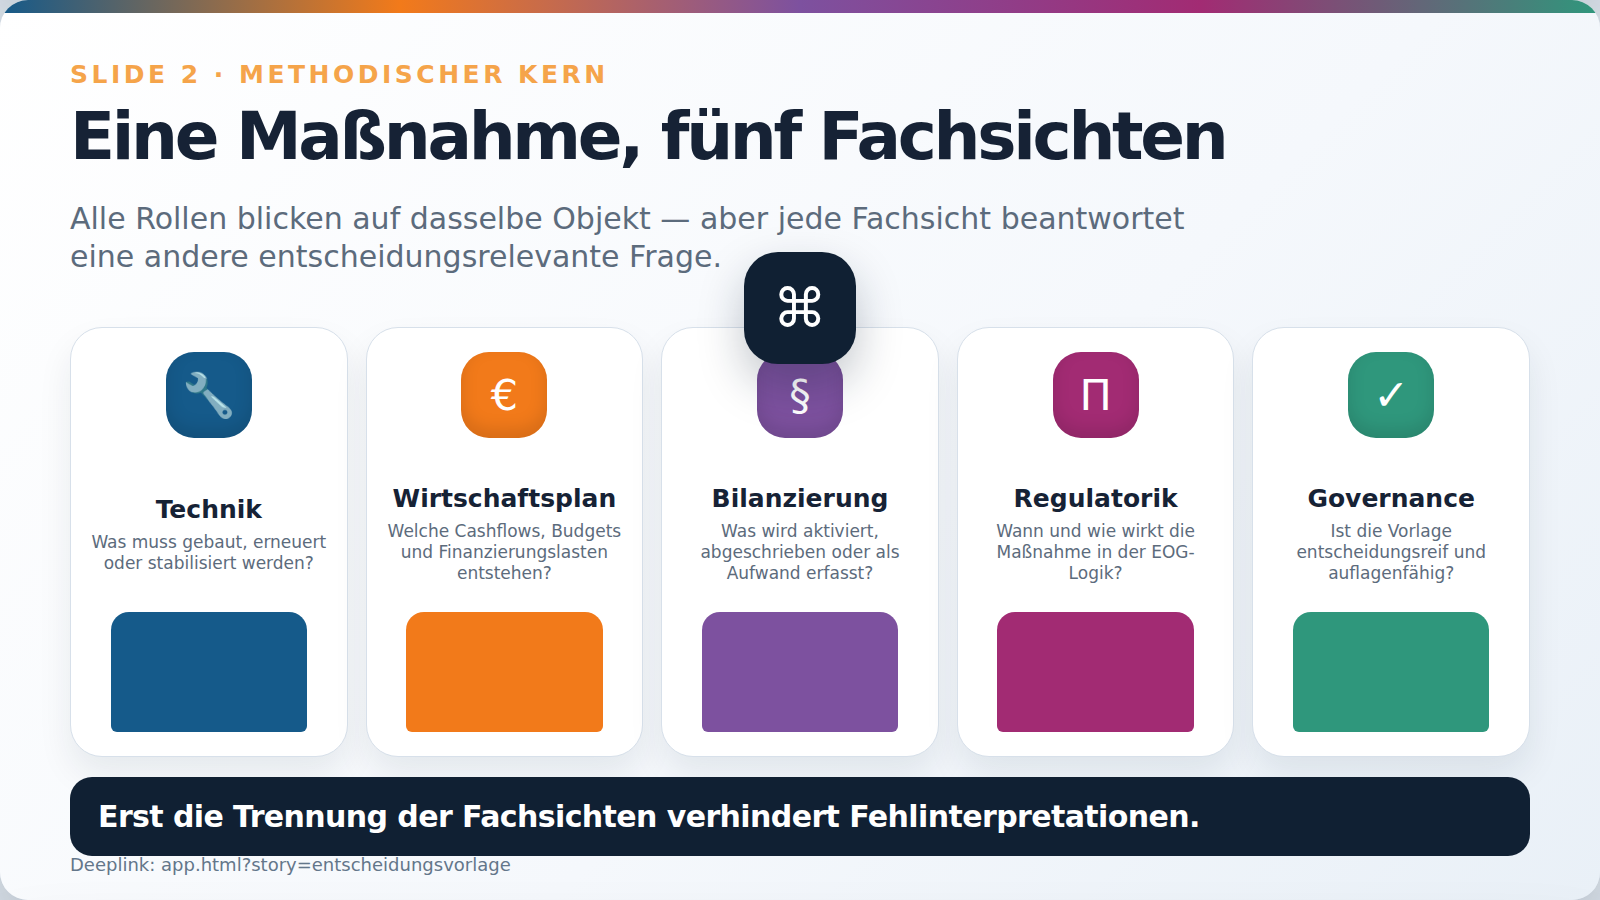
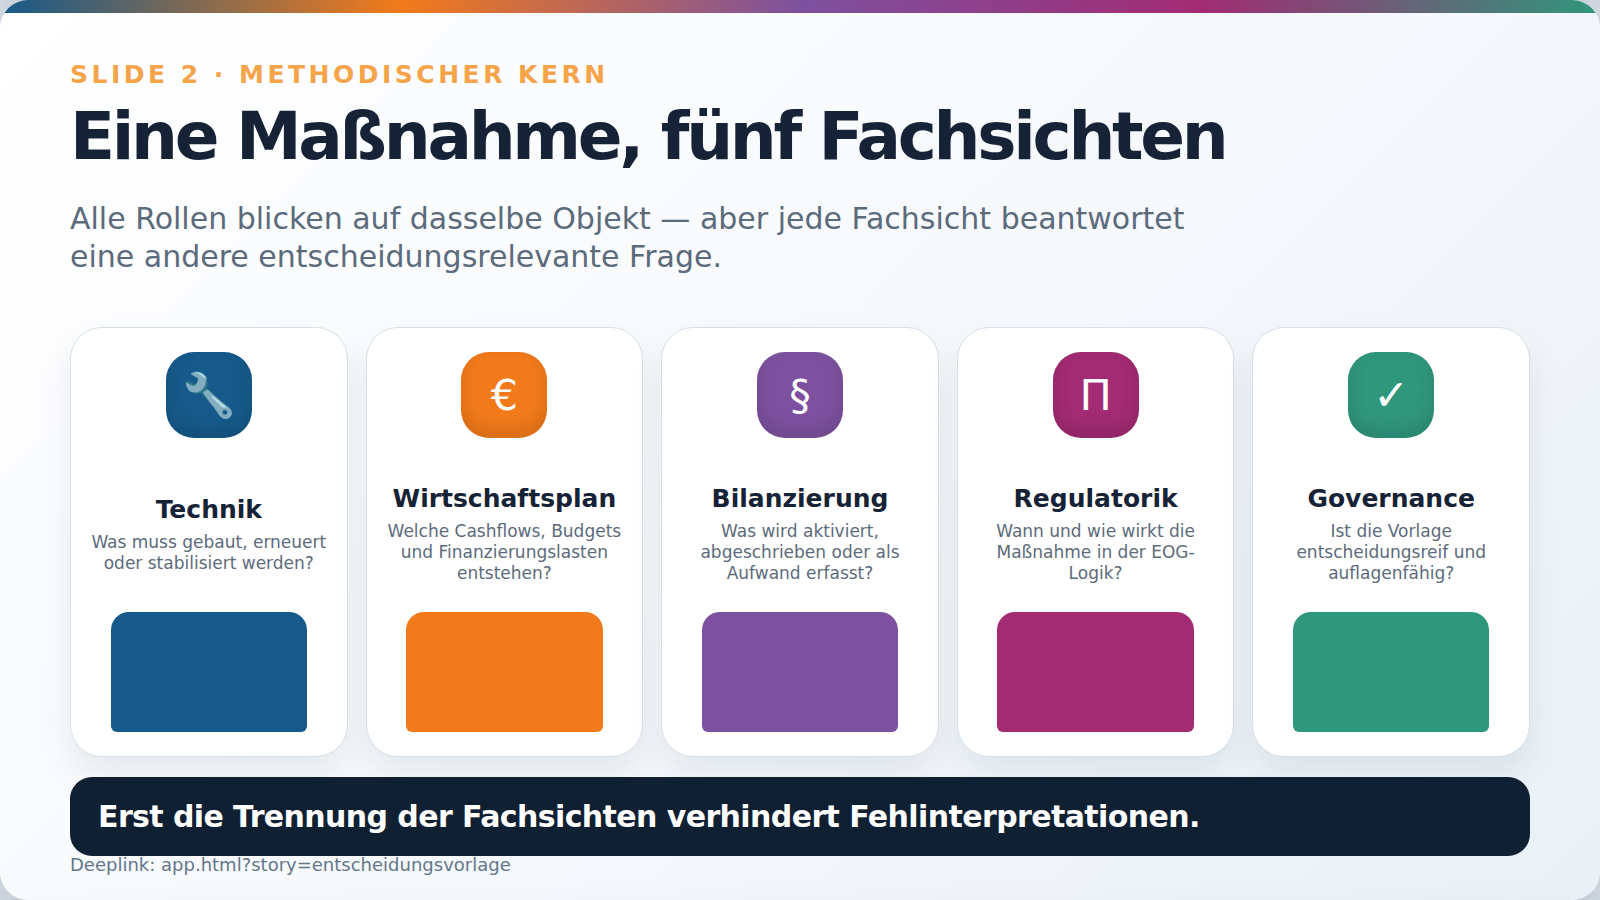
docs: add methodology visual key slide

Changed region(s): [[0.4375, 0.28, 0.5625, 0.4044]]

diff --git a/docs/visuals/methodik-grafikserie.html b/docs/visuals/methodik-grafikserie.html
@@ -5,24 +5,16 @@
   <meta name="viewport" content="width=device-width, initial-scale=1">
   <title>Methodik-Grafikserie · Szenarienrechner-EOG</title>
   <style>
-    :root{--ink:#102033;--muted:#5c6b7c;--line:#c9d6e2;--brand:#155a8a;--orange:#f27a1a;--bg:#dfe6ee}*{box-sizing:border-box}body{margin:0;background:linear-gradient(135deg,#eef3f8,#d7e1ec);color:var(--ink);font-family:Inter,ui-sans-serif,system-ui,-apple-system,BlinkMacSystemFont,"Segoe UI",sans-serif}.page{max-width:1440px;margin:0 auto;padding:28px clamp(12px,3vw,40px) 46px}.hero{display:flex;gap:20px;justify-content:space-between;align-items:flex-end;margin-bottom:22px}.hero h1{font-size:clamp(2rem,4vw,4.2rem);line-height:1;margin:0;letter-spacing:-.055em}.hero p{max-width:760px;margin:.7rem 0 0;color:var(--muted);font-size:1.05rem;line-height:1.5}.hero-actions{display:flex;gap:10px;flex-wrap:wrap;justify-content:flex-end}.hero-actions a,.hero-actions button{border:1px solid #b9c9d8;background:#fff;color:var(--brand);border-radius:999px;padding:.7rem 1rem;font-weight:800;text-decoration:none;cursor:pointer;font:inherit;box-shadow:0 8px 22px rgba(16,32,51,.08)}.carousel{background:rgba(255,255,255,.78);border:1px solid var(--line);border-radius:28px;padding:clamp(12px,2vw,24px);box-shadow:0 25px 70px rgba(16,32,51,.14)}.stage{position:relative;aspect-ratio:16/9;background:#c8d4df;border-radius:22px;overflow:hidden;display:grid;place-items:center}.slide{position:absolute;inset:0;display:grid;place-items:center;opacity:0;visibility:hidden;transition:opacity .22s ease}.slide.is-active{opacity:1;visibility:visible}.slide img{display:block;width:100%;height:100%;object-fit:contain}.stage:focus{outline:4px solid var(--orange);outline-offset:4px}.nav{position:absolute;inset:0;pointer-events:none}.nav button,.modal-nav button{pointer-events:auto;position:absolute;top:50%;transform:translateY(-50%);width:54px;height:76px;border:0;border-radius:18px;background:rgba(16,32,51,.78);color:white;font-size:42px;font-weight:900;cursor:pointer;box-shadow:0 12px 26px rgba(16,32,51,.25)}.prev{left:14px}.next{right:14px}.counter{position:absolute;right:22px;bottom:18px;background:rgba(16,32,51,.84);color:#fff;border-radius:999px;padding:.5rem .8rem;font-weight:900;letter-spacing:.08em}.thumbs{display:grid;grid-template-columns:repeat(7,1fr);gap:10px;margin-top:16px}.thumb{position:relative;border:3px solid transparent;background:#fff;border-radius:14px;padding:0;overflow:hidden;cursor:pointer;box-shadow:0 8px 18px rgba(16,32,51,.08)}.thumb.is-current{border-color:var(--orange)}.thumb img{display:block;width:100%;height:auto}.thumb span{position:absolute;left:7px;top:7px;background:rgba(16,32,51,.85);color:#fff;border-radius:999px;min-width:28px;height:28px;display:grid;place-items:center;font-weight:900;font-size:.85rem}.hint{margin:16px 4px 0;color:var(--muted)}.modal{position:fixed;inset:0;background:rgba(6,16,28,.94);display:none;z-index:20;padding:26px}.modal.is-open{display:grid;grid-template-rows:auto 1fr;gap:16px}.modal-head{display:flex;justify-content:space-between;align-items:center;color:white}.modal-head strong{font-size:1.15rem}.modal-head button{border:1px solid rgba(255,255,255,.35);background:rgba(255,255,255,.1);color:white;border-radius:999px;padding:.65rem 1rem;font-weight:900;cursor:pointer}.modal-stage{position:relative;display:grid;place-items:center;min-height:0}.modal img{max-width:100%;max-height:100%;border-radius:18px;box-shadow:0 35px 90px rgba(0,0,0,.45)}@media (max-width:900px){.hero{display:block}.hero-actions{justify-content:flex-start;margin-top:1rem}.thumbs{grid-template-columns:repeat(4,1fr)}.nav button{width:44px;height:60px;font-size:32px}.page{padding-inline:10px}.carousel{border-radius:18px}.stage{border-radius:14px}.hint{font-size:.95rem}}@media print{body{background:white}.hero,.thumbs,.nav,.hint,.modal{display:none!important}.page{max-width:none;padding:0}.carousel{box-shadow:none;border:0;padding:0}.stage{display:block;aspect-ratio:auto;background:white;overflow:visible}.slide{position:relative;opacity:1;visibility:visible;page-break-after:always;break-after:page;margin:0 0 12mm}.slide img{width:100%;height:auto}}
+    :root{--ink:#102033;--muted:#5c6b7c;--line:#c9d6e2;--brand:#155a8a;--orange:#f27a1a;--bg:#dfe6ee}*{box-sizing:border-box}body{margin:0;background:linear-gradient(135deg,#eef3f8,#d7e1ec);color:var(--ink);font-family:Inter,ui-sans-serif,system-ui,-apple-system,BlinkMacSystemFont,"Segoe UI",sans-serif}.page{max-width:1440px;margin:0 auto;padding:28px clamp(12px,3vw,40px) 46px}.hero{display:flex;gap:20px;justify-content:space-between;align-items:flex-end;margin-bottom:22px}.hero h1{font-size:clamp(2rem,4vw,4.2rem);line-height:1;margin:0;letter-spacing:-.055em}.hero p{max-width:760px;margin:.7rem 0 0;color:var(--muted);font-size:1.05rem;line-height:1.5}.hero-actions{display:flex;gap:10px;flex-wrap:wrap;justify-content:flex-end}.hero-actions a,.hero-actions button{border:1px solid #b9c9d8;background:#fff;color:var(--brand);border-radius:999px;padding:.7rem 1rem;font-weight:800;text-decoration:none;cursor:pointer;font:inherit;box-shadow:0 8px 22px rgba(16,32,51,.08)}.carousel{background:rgba(255,255,255,.78);border:1px solid var(--line);border-radius:28px;padding:clamp(12px,2vw,24px);box-shadow:0 25px 70px rgba(16,32,51,.14)}.stage{position:relative;aspect-ratio:16/9;background:#c8d4df;border-radius:22px;overflow:hidden;display:grid;place-items:center}.slide{position:absolute;inset:0;display:grid;place-items:center;opacity:0;visibility:hidden;transition:opacity .22s ease}.slide.is-active{opacity:1;visibility:visible}.slide img{display:block;width:100%;height:100%;object-fit:contain}.stage:focus{outline:4px solid var(--orange);outline-offset:4px}.nav{position:absolute;inset:0;pointer-events:none}.nav button,.modal-nav button{pointer-events:auto;position:absolute;top:50%;transform:translateY(-50%);width:54px;height:76px;border:0;border-radius:18px;background:rgba(16,32,51,.78);color:white;font-size:42px;font-weight:900;cursor:pointer;box-shadow:0 12px 26px rgba(16,32,51,.25)}.prev{left:14px}.next{right:14px}.counter{position:absolute;right:22px;bottom:18px;background:rgba(16,32,51,.84);color:#fff;border-radius:999px;padding:.5rem .8rem;font-weight:900;letter-spacing:.08em}.thumbs{display:grid;grid-template-columns:repeat(8,1fr);gap:10px;margin-top:16px}.thumb{position:relative;border:3px solid transparent;background:#fff;border-radius:14px;padding:0;overflow:hidden;cursor:pointer;box-shadow:0 8px 18px rgba(16,32,51,.08)}.thumb.is-current{border-color:var(--orange)}.thumb img{display:block;width:100%;height:auto}.thumb span{position:absolute;left:7px;top:7px;background:rgba(16,32,51,.85);color:#fff;border-radius:999px;min-width:28px;height:28px;display:grid;place-items:center;font-weight:900;font-size:.85rem}.hint{margin:16px 4px 0;color:var(--muted)}.modal{position:fixed;inset:0;background:rgba(6,16,28,.94);display:none;z-index:20;padding:26px}.modal.is-open{display:grid;grid-template-rows:auto 1fr;gap:16px}.modal-head{display:flex;justify-content:space-between;align-items:center;color:white}.modal-head strong{font-size:1.15rem}.modal-head button{border:1px solid rgba(255,255,255,.35);background:rgba(255,255,255,.1);color:white;border-radius:999px;padding:.65rem 1rem;font-weight:900;cursor:pointer}.modal-stage{position:relative;display:grid;place-items:center;min-height:0}.modal img{max-width:100%;max-height:100%;border-radius:18px;box-shadow:0 35px 90px rgba(0,0,0,.45)}@media (max-width:900px){.hero{display:block}.hero-actions{justify-content:flex-start;margin-top:1rem}.thumbs{grid-template-columns:repeat(4,1fr)}.nav button{width:44px;height:60px;font-size:32px}.page{padding-inline:10px}.carousel{border-radius:18px}.stage{border-radius:14px}.hint{font-size:.95rem}}@media print{body{background:white}.hero,.thumbs,.nav,.hint,.modal{display:none!important}.page{max-width:none;padding:0}.carousel{box-shadow:none;border:0;padding:0}.stage{display:block;aspect-ratio:auto;background:white;overflow:visible}.slide{position:relative;opacity:1;visibility:visible;page-break-after:always;break-after:page;margin:0 0 12mm}.slide img{width:100%;height:auto}}
   </style>
 </head>
 <body>
   <main class="page">
     <section class="hero" aria-labelledby="page-title">
-      <div>
-        <h1 id="page-title">Methodik-Grafikserie</h1>
-        <p>Sieben Slides als Online-Präsentation: per Pfeil oder Thumbnail wechseln, per Klick groß öffnen und in der Großansicht zur nächsten Slide wechseln.</p>
-      </div>
-      <div class="hero-actions">
-        <a href="../index.html">Zur Dokumentation</a>
-        <a href="../../app.html?story=entscheidungsvorlage">App-Deeplink</a>
-        <button type="button" data-action="open">Aktuelle Slide groß öffnen</button>
-      </div>
+      <div><h1 id="page-title">Methodik-Grafikserie</h1><p>Acht Slides als Online-Präsentation: per Pfeil oder Thumbnail wechseln, per Klick groß öffnen und in der Großansicht zur nächsten Slide wechseln.</p></div>
+      <div class="hero-actions"><a href="../index.html">Zur Dokumentation</a><a href="../../index.html">Zur Startseite</a><a href="../../app.html?story=entscheidungsvorlage">App-Deeplink</a><button type="button" data-action="open">Aktuelle Slide groß öffnen</button></div>
     </section>
-    <section class="carousel" aria-label="Methodik-Slides als Karussell">
-      <div class="stage" tabindex="0" role="button" aria-label="Aktuelle Slide groß öffnen">
+    <section class="carousel" aria-label="Methodik-Slides als Karussell"><div class="stage" tabindex="0" role="button" aria-label="Aktuelle Slide groß öffnen">
         <section class="slide is-active" data-slide="01" id="slide-01"><img src="exports/methodik-slide-01.png" alt="Slide 1: Warum klassische Investitionsrechnung nicht reicht"></section>
         <section class="slide" data-slide="02" id="slide-02"><img src="exports/methodik-slide-02.png" alt="Slide 2: Eine Maßnahme, fünf Fachsichten"></section>
         <section class="slide" data-slide="03" id="slide-03"><img src="exports/methodik-slide-03.png" alt="Slide 3: Cashflow ist nicht EOG-Wirkung"></section>
@@ -30,9 +22,8 @@
         <section class="slide" data-slide="05" id="slide-05"><img src="exports/methodik-slide-05.png" alt="Slide 5: IRR-Falle und MIRR"></section>
         <section class="slide" data-slide="06" id="slide-06"><img src="exports/methodik-slide-06.png" alt="Slide 6: Szenarien statt Scheingenauigkeit"></section>
         <section class="slide" data-slide="07" id="slide-07"><img src="exports/methodik-slide-07.png" alt="Slide 7: Governance-Reife statt bloßer Kennzahlen"></section>
-        <div class="nav" aria-label="Slide-Navigation"><button class="prev" type="button" data-action="prev" aria-label="Vorherige Slide">‹</button><button class="next" type="button" data-action="next" aria-label="Nächste Slide">›</button></div>
-        <div class="counter" aria-live="polite">1 / 7</div>
-      </div>
+        <section class="slide" data-slide="08" id="slide-08"><img src="exports/methodik-slide-08.png" alt="Slide 8: QR-Code und Startseite"></section>
+        <div class="nav" aria-label="Slide-Navigation"><button class="prev" type="button" data-action="prev" aria-label="Vorherige Slide">‹</button><button class="next" type="button" data-action="next" aria-label="Nächste Slide">›</button></div><div class="counter" aria-live="polite">1 / 8</div></div>
       <div class="thumbs" aria-label="Slide-Auswahl">
         <button class="thumb is-current" type="button" data-target="0" aria-label="Slide 1 anzeigen"><img src="exports/methodik-slide-01.png" alt="Vorschau Slide 1"><span>1</span></button>
         <button class="thumb" type="button" data-target="1" aria-label="Slide 2 anzeigen"><img src="exports/methodik-slide-02.png" alt="Vorschau Slide 2"><span>2</span></button>
@@ -41,22 +32,16 @@
         <button class="thumb" type="button" data-target="4" aria-label="Slide 5 anzeigen"><img src="exports/methodik-slide-05.png" alt="Vorschau Slide 5"><span>5</span></button>
         <button class="thumb" type="button" data-target="5" aria-label="Slide 6 anzeigen"><img src="exports/methodik-slide-06.png" alt="Vorschau Slide 6"><span>6</span></button>
         <button class="thumb" type="button" data-target="6" aria-label="Slide 7 anzeigen"><img src="exports/methodik-slide-07.png" alt="Vorschau Slide 7"><span>7</span></button>
-      </div>
-      <p class="hint">Tipp: Pfeiltasten wechseln die Slides. Klick auf die große Slide öffnet die PNG-Großansicht.</p>
-    </section>
+        <button class="thumb" type="button" data-target="7" aria-label="Slide 8 anzeigen"><img src="exports/methodik-slide-08.png" alt="Vorschau Slide 8"><span>8</span></button>
+      </div><p class="hint">Tipp: Pfeiltasten wechseln die Slides. Klick auf die große Slide öffnet die PNG-Großansicht.</p></section>
   </main>
-  <div class="modal" role="dialog" aria-modal="true" aria-hidden="true" aria-label="Slide-Großansicht">
-    <div class="modal-head"><strong class="modal-title">Slide 1</strong><button type="button" data-action="close">Schließen</button></div>
-    <div class="modal-stage"><img src="exports/methodik-slide-01.png" alt="Großansicht Slide 1"><div class="modal-nav"><button class="prev" type="button" data-action="prev" aria-label="Vorherige Slide">‹</button><button class="next" type="button" data-action="next" aria-label="Nächste Slide">›</button></div></div>
-  </div>
+  <div class="modal" role="dialog" aria-modal="true" aria-hidden="true" aria-label="Slide-Großansicht"><div class="modal-head"><strong class="modal-title">Slide 1</strong><button type="button" data-action="close">Schließen</button></div><div class="modal-stage"><img src="exports/methodik-slide-01.png" alt="Großansicht Slide 1"><div class="modal-nav"><button class="prev" type="button" data-action="prev" aria-label="Vorherige Slide">‹</button><button class="next" type="button" data-action="next" aria-label="Nächste Slide">›</button></div></div></div>
   <script>
     const slides=[...document.querySelectorAll('.slide')];const thumbs=[...document.querySelectorAll('.thumb')];const counter=document.querySelector('.counter');const stage=document.querySelector('.stage');const modal=document.querySelector('.modal');const modalImg=document.querySelector('.modal img');const modalTitle=document.querySelector('.modal-title');let current=0;
     function titleOf(i){return slides[i].querySelector('img').alt.replace(/^Slide \d+: /,'')}
     function show(index){current=(index+slides.length)%slides.length;slides.forEach((s,i)=>s.classList.toggle('is-active',i===current));thumbs.forEach((t,i)=>t.classList.toggle('is-current',i===current));counter.textContent=`${current+1} / ${slides.length}`;history.replaceState(null,'',`#slide-${String(current+1).padStart(2,'0')}`);if(modal.classList.contains('is-open'))updateModal()}
     function updateModal(){const n=String(current+1).padStart(2,'0');modalImg.src=`exports/methodik-slide-${n}.png`;modalImg.alt=`Großansicht Slide ${current+1}: ${titleOf(current)}`;modalTitle.textContent=`Slide ${current+1}: ${titleOf(current)}`}
-    function openModal(){updateModal();modal.classList.add('is-open');modal.setAttribute('aria-hidden','false')}
-    function closeModal(){modal.classList.remove('is-open');modal.setAttribute('aria-hidden','true')}
+    function openModal(){updateModal();modal.classList.add('is-open');modal.setAttribute('aria-hidden','false')}function closeModal(){modal.classList.remove('is-open');modal.setAttribute('aria-hidden','true')}
     document.querySelectorAll('[data-action="prev"]').forEach(b=>b.addEventListener('click',()=>show(current-1)));document.querySelectorAll('[data-action="next"]').forEach(b=>b.addEventListener('click',()=>show(current+1)));thumbs.forEach((t,i)=>t.addEventListener('click',()=>show(i)));stage.addEventListener('click',e=>{if(!e.target.closest('.nav button'))openModal()});document.querySelector('[data-action="open"]').addEventListener('click',openModal);document.querySelector('[data-action="close"]').addEventListener('click',closeModal);modal.addEventListener('click',e=>{if(e.target===modal)closeModal()});window.addEventListener('keydown',e=>{if(e.key==='ArrowRight')show(current+1);if(e.key==='ArrowLeft')show(current-1);if(e.key==='Escape')closeModal();if(e.key==='Enter'&&document.activeElement===stage)openModal()});const m=location.hash.match(/slide-(\d+)/);show(m?Number(m[1])-1:0);
   </script>
-</body>
-</html>
+</body></html>

diff --git a/docs/visuals/methodik-slide-source.html b/docs/visuals/methodik-slide-source.html
@@ -1,0 +1,23 @@
+<!doctype html>
+<html lang="de">
+<head>
+  <meta charset="utf-8">
+  <meta name="viewport" content="width=device-width, initial-scale=1">
+  <title>Methodik-Grafikserie · Szenarienrechner-EOG</title>
+  <style>
+    :root{--navy:#102033;--blue:#155a8a;--orange:#f27a1a;--purple:#7d519f;--magenta:#a22b73;--green:#2f977c;--red:#d13a2f;--yellow:#f0b82b;--grey:#8390a2;--ink:#162235;--muted:#5c6b7c;--line:#d7e0ea;--paper:#f7f9fc}*{box-sizing:border-box}body{margin:0;background:#dfe6ee;color:var(--ink);font-family:Inter,ui-sans-serif,system-ui,-apple-system,BlinkMacSystemFont,"Segoe UI",sans-serif}.deck{display:flex;flex-direction:column;gap:32px;padding:32px}.slide{width:1600px;height:900px;margin:auto;background:linear-gradient(135deg,#fff 0%,#f5f8fc 58%,#e9f0f7 100%);border-radius:28px;box-shadow:0 30px 80px rgba(15,32,51,.22);position:relative;overflow:hidden;padding:60px 70px}.dark{background:radial-gradient(circle at 78% 18%,#2d6f95 0%,#153b5e 36%,#0c1e34 100%);color:white}.topline{position:absolute;top:0;left:0;right:0;height:13px;background:linear-gradient(90deg,var(--blue),var(--orange),var(--purple),var(--magenta),var(--green))}.kicker{font-weight:850;letter-spacing:.14em;text-transform:uppercase;color:#f5a44a;font-size:25px}.dark .kicker{color:#ffc36f}.title{font-size:66px;line-height:1.02;letter-spacing:-.05em;font-weight:900;margin:14px 0 16px}.subtitle{font-size:30px;line-height:1.25;color:var(--muted);max-width:1120px}.dark .subtitle{color:#d8e9f7}.claim{position:absolute;left:70px;right:70px;bottom:44px;padding:22px 28px;border-radius:22px;background:#102033;color:#fff;font-size:30px;font-weight:850;letter-spacing:-.02em}.dark .claim{background:rgba(255,255,255,.13);border:1px solid rgba(255,255,255,.22)}.footer{position:absolute;right:70px;bottom:25px;color:#8390a2;font-size:18px}.dark .footer{color:#b6cce1}.deeplink{position:absolute;left:70px;bottom:25px;color:#63768a;font-size:18px}.dark .deeplink{color:#b8d0e6}.grid2{display:grid;grid-template-columns:1fr 1fr;gap:55px;margin-top:45px}.card{background:rgba(255,255,255,.9);border:1px solid var(--line);border-radius:26px;padding:30px;box-shadow:0 16px 42px rgba(22,34,53,.08)}.dark .card{background:rgba(255,255,255,.1);border-color:rgba(255,255,255,.18)}.card h3{font-size:31px;margin:0 0 14px;letter-spacing:-.03em}.card p,.small{font-size:22px;line-height:1.38;color:var(--muted);margin:0}.dark .card p,.dark .small{color:#dce9f4}.row{display:flex;align-items:center;gap:18px}.bigicon{width:152px;height:152px;border-radius:42px;display:flex;align-items:center;justify-content:center;font-size:76px;color:#fff}.icon{width:86px;height:86px;border-radius:28px;display:flex;align-items:center;justify-content:center;font-size:43px;color:#fff;box-shadow:inset 0 -8px 18px rgba(0,0,0,.12)}.five{display:grid;grid-template-columns:repeat(5,1fr);gap:18px;margin-top:52px}.view{height:430px;border-radius:32px;padding:24px 18px;background:#fff;border:1px solid var(--line);box-shadow:0 18px 34px rgba(16,32,51,.08);display:flex;flex-direction:column;align-items:center;text-align:center;justify-content:space-between}.view h3{font-size:25px;margin:18px 0 8px}.view p{font-size:17px;line-height:1.25;color:var(--muted);margin:0}.view .bar{width:82%;height:120px;border-radius:18px 18px 6px 6px}.center-node{position:absolute;left:50%;top:252px;transform:translateX(-50%);width:112px;height:112px;border-radius:34px;background:#102033;color:#fff;display:flex;align-items:center;justify-content:center;font-size:54px;box-shadow:0 20px 45px rgba(16,32,51,.25);z-index:2}.timeline{margin-top:60px;display:grid;grid-template-rows:repeat(4,108px);gap:18px}.tlrow{display:grid;grid-template-columns:190px 1fr;gap:22px;align-items:center}.tlname{font-size:25px;font-weight:900}.track{height:70px;background:#edf3f8;border-radius:22px;position:relative;border:1px solid var(--line)}.block{position:absolute;top:12px;height:46px;border-radius:16px;color:white;font-weight:900;display:flex;align-items:center;justify-content:center;font-size:19px}.years{display:grid;grid-template-columns:repeat(6,1fr);margin-left:212px;margin-top:10px;color:var(--muted);font-weight:800}.flow{display:grid;grid-template-columns:repeat(3,1fr);gap:28px;margin-top:54px}.badge{display:inline-flex;align-items:center;justify-content:center;min-width:56px;height:56px;border-radius:50%;color:#fff;font-size:28px;font-weight:900}.pathmap{height:395px;margin-top:50px;border-radius:32px;background:#fff;border:1px solid var(--line);position:relative;padding:35px}.path{position:absolute;height:16px;border-radius:999px}.pathlabel{position:absolute;font-weight:900;font-size:24px}.legend{position:absolute;right:40px;top:40px;display:grid;gap:12px}.legend div{display:flex;align-items:center;gap:10px;font-size:20px;font-weight:800}.sw{width:22px;height:22px;border-radius:7px}.curvebox{height:370px;background:#fff;border:1px solid var(--line);border-radius:30px;position:relative;padding:24px}.curvebox svg{width:100%;height:100%}.pill{display:inline-flex;padding:10px 16px;border-radius:999px;background:#eef4fa;color:#23435e;font-weight:800;font-size:18px}.decision-grid{display:grid;grid-template-columns:repeat(4,1fr);gap:22px;margin-top:52px}.decision{height:360px;border-radius:30px;background:#fff;border:1px solid var(--line);padding:28px;display:flex;flex-direction:column;align-items:center;text-align:center;justify-content:space-between;box-shadow:0 18px 36px rgba(16,32,51,.08);color:var(--ink)}.decision h3{font-size:29px;margin:0}.decision p{font-size:18px;line-height:1.3;color:var(--muted);margin:0}
+.final-layout{display:grid;grid-template-columns:0.84fr 1.16fr;gap:42px;margin-top:28px;align-items:stretch}.qr-card{background:#fff;border:1px solid var(--line);border-radius:34px;padding:28px;box-shadow:0 20px 46px rgba(16,32,51,.1);display:flex;flex-direction:column;align-items:center;justify-content:center;text-align:center}.qr-card img{width:280px;height:280px;object-fit:contain}.qr-card strong{font-size:27px;margin-top:16px;letter-spacing:-.025em}.qr-card a{font-size:19px;color:var(--blue);font-weight:850;text-decoration:none;word-break:break-word}.keyword-grid{display:grid;grid-template-columns:1fr;gap:10px}.keyword{background:#fff;border:1px solid var(--line);border-radius:22px;padding:14px 22px;min-height:82px;display:grid;grid-template-columns:60px 1fr;gap:16px;align-items:center;box-shadow:0 14px 30px rgba(16,32,51,.08)}.keyword .badge{width:54px;height:54px;min-width:54px;font-size:24px}.keyword h3{font-size:25px;line-height:1.05;margin:0 0 3px;letter-spacing:-.03em}.keyword p{font-size:16px;line-height:1.2;color:var(--muted);margin:0}.dark .keyword,.dark .qr-card{background:rgba(255,255,255,.1);border-color:rgba(255,255,255,.18)}.dark .keyword p{color:#dce9f4}.dark .qr-card a{color:#d8e9f7}
+@media print{body{background:#fff}.deck{padding:0;gap:0}.slide{box-shadow:none;border-radius:0;page-break-after:always}}
+  </style>
+</head>
+<body><main class="deck">
+<section class="slide dark" data-slide="01"><div class="topline"></div><div class="kicker">Slide 1 · Problemrahmen</div><h1 class="title">Warum klassische Investitionsrechnung nicht reicht</h1><p class="subtitle">Regulierte Finanzplanung erweitert NPV, IRR und Budgetlogik um Periodisierung, Erlösobergrenzen, Bilanzierung und Governance.</p><div class="grid2"><div class="card"><div class="row"><div class="bigicon" style="background:linear-gradient(135deg,#f27a1a,#ffc36f)">∑</div><div><h3>Klassische Investitionsrechnung</h3><p>Eine Kurve, ein Diskontsatz, eine scheinbar eindeutige Wahrheit.</p></div></div></div><div class="card"><div class="row"><div class="bigicon" style="background:linear-gradient(135deg,#2f977c,#155a8a)">⚙</div><div><h3>Regulierte Netzinfrastruktur</h3><p>Mehrere fachliche Realitäten mit unterschiedlichen Zeitpunkten und Anerkennungslogiken.</p></div></div></div></div><div class="claim">Regulierung erzeugt eine zweite fachliche Realität.</div><div class="footer">Szenarienrechner-EOG · Methodik-Grafikserie</div></section>
+<section class="slide" data-slide="02"><div class="topline"></div><div class="kicker">Slide 2 · Methodischer Kern</div><h1 class="title">Eine Maßnahme, fünf Fachsichten</h1><p class="subtitle">Alle Rollen blicken auf dasselbe Objekt — aber jede Fachsicht beantwortet eine andere entscheidungsrelevante Frage.</p><div class="five"><div class="view"><div class="icon" style="background:#155a8a">🔧</div><div><h3>Technik</h3><p>Was muss gebaut, erneuert oder stabilisiert werden?</p></div><div class="bar" style="background:#155a8a"></div></div><div class="view"><div class="icon" style="background:#f27a1a">€</div><div><h3>Wirtschaftsplan</h3><p>Welche Cashflows, Budgets und Finanzierungslasten entstehen?</p></div><div class="bar" style="background:#f27a1a"></div></div><div class="view"><div class="icon" style="background:#7d519f">§</div><div><h3>Bilanzierung</h3><p>Was wird aktiviert, abgeschrieben oder als Aufwand erfasst?</p></div><div class="bar" style="background:#7d519f"></div></div><div class="view"><div class="icon" style="background:#a22b73">Π</div><div><h3>Regulatorik</h3><p>Wann und wie wirkt die Maßnahme in der EOG-Logik?</p></div><div class="bar" style="background:#a22b73"></div></div><div class="view"><div class="icon" style="background:#2f977c">✓</div><div><h3>Governance</h3><p>Ist die Vorlage entscheidungsreif und auflagenfähig?</p></div><div class="bar" style="background:#2f977c"></div></div></div><div class="claim">Erst die Trennung der Fachsichten verhindert Fehlinterpretationen.</div><div class="deeplink">Deeplink: app.html?story=entscheidungsvorlage</div></section>
+<section class="slide" data-slide="03"><div class="topline"></div><div class="kicker">Slide 3 · Periodenlogik</div><h1 class="title">Cashflow ist nicht EOG-Wirkung</h1><p class="subtitle">Auszahlung, Aufwand, Aktivierung, Abschreibung und regulatorische Anerkennung fallen zeitlich und sachlich auseinander.</p><div class="timeline"><div class="tlrow"><div class="tlname">Cashflow</div><div class="track"><div class="block" style="left:4%;width:22%;background:#f27a1a">Mittelabfluss</div></div></div><div class="tlrow"><div class="tlname">HGB</div><div class="track"><div class="block" style="left:10%;width:20%;background:#7d519f">Aktivierung</div><div class="block" style="left:34%;width:46%;background:#9b7bbb">AfA</div></div></div><div class="tlrow"><div class="tlname">Regulatorik</div><div class="track"><div class="block" style="left:28%;width:52%;background:#a22b73">Periodenwirkung</div></div></div><div class="tlrow"><div class="tlname">Governance</div><div class="track"><div class="block" style="left:2%;width:34%;background:#2f977c">Beschluss vor Wirkung</div></div></div></div><div class="years"><span>Jahr 0</span><span>Jahr 1</span><span>Jahr 2</span><span>Jahr 3</span><span>Jahr 4</span><span>Jahr 5</span></div><div class="claim">Was heute bezahlt wird, wirkt nicht zwingend heute regulatorisch.</div><div class="deeplink">Deeplink: app.html?story=datenerhebung</div></section>
+<section class="slide" data-slide="04"><div class="topline"></div><div class="kicker">Slide 4 · Wirkungsverzüge</div><h1 class="title">Wirkungsverzüge machen den Unterschied</h1><p class="subtitle">Die kritische Methodik liegt in der Periodisierung: CAPEX, OPEX, Qualität, Effizienz und Risiko wirken nicht gleichzeitig.</p><div class="flow"><div class="card"><div class="row"><span class="badge" style="background:#155a8a">1</span><h3>Investition heute</h3></div><p>Technische Notwendigkeit und Mittelabfluss entstehen häufig vor der regulatorischen Anerkennung.</p></div><div class="card"><div class="row"><span class="badge" style="background:#a22b73">2</span><h3>Qualität & Effizienz</h3></div><p>Wirkungen werden als Annahmen dokumentiert und nicht als sofortiger Erlöseffekt behandelt.</p></div><div class="card"><div class="row"><span class="badge" style="background:#f27a1a">3</span><h3>OPEX-Wirkung</h3></div><p>Operative Effekte werden periodisiert, damit Szenarien nicht zu früh entlasten.</p></div></div><div class="pathmap" style="height:225px"><div class="pathlabel" style="left:40px;top:40px">Planungsfehler</div><div class="path" style="left:260px;top:60px;width:930px;background:#d13a2f"></div><div class="pathlabel" style="right:48px;top:40px;color:#d13a2f">falscher Zeitpunkt</div><div class="path" style="left:260px;top:145px;width:930px;background:#2f977c"></div><div class="pathlabel" style="right:48px;top:125px;color:#2f977c">saubere Periodisierung</div></div><div class="claim">Der Planungsfehler entsteht selten in der Formel — sondern im falschen Zeitpunkt.</div></section>
+<section class="slide" data-slide="05"><div class="topline"></div><div class="kicker">Slide 5 · Finanzmathematik</div><h1 class="title">IRR-Falle: Mehrdeutigkeit sichtbar machen</h1><p class="subtitle">Langfristige Infrastruktur kann mehrere Vorzeichenwechsel enthalten. Dann wird die klassische interne Verzinsung interpretativ riskant.</p><div class="grid2"><div class="curvebox"><svg viewBox="0 0 620 310"><line x1="25" y1="160" x2="595" y2="160" stroke="#c9d4df" stroke-width="4"/><line x1="65" y1="25" x2="65" y2="285" stroke="#c9d4df" stroke-width="4"/><path d="M70 245 C145 245 145 62 235 62 C325 62 310 150 378 150 C455 150 470 258 560 258" fill="none" stroke="#155a8a" stroke-width="12" stroke-linecap="round"/><circle cx="176" cy="160" r="13" fill="#d13a2f"/><circle cx="390" cy="160" r="13" fill="#d13a2f"/><text x="128" y="197" font-size="24" font-weight="800" fill="#d13a2f">IRR?</text><text x="356" y="197" font-size="24" font-weight="800" fill="#d13a2f">IRR?</text><text x="78" y="280" font-size="20" fill="#5c6b7c">Investition</text><text x="252" y="45" font-size="20" fill="#5c6b7c">Rückflüsse</text><text x="445" y="290" font-size="20" fill="#5c6b7c">Folgekosten</text></svg></div><div class="card"><span class="pill">MIRR</span><h3 style="font-size:44px;margin-top:28px">Annahmen statt Scheineindeutigkeit</h3><p>Die modifizierte interne Verzinsung trennt Finanzierungssatz und Reinvestitionssatz. Dadurch wird nicht die Komplexität versteckt, sondern die Annahmen werden prüfbar.</p></div></div><div class="claim">MIRR ersetzt mathematische Mehrdeutigkeit durch prüfbare Annahmen.</div><div class="deeplink">Deeplink: app.html?story=massnahmenbewertung</div></section>
+<section class="slide" data-slide="06"><div class="topline"></div><div class="kicker">Slide 6 · Robustheit</div><h1 class="title">Szenarien statt Scheingenauigkeit</h1><p class="subtitle">Die Methode behauptet keine perfekte Prognose. Sie zeigt, ob eine Maßnahme unter unterschiedlichen Annahmen entscheidungsfähig bleibt.</p><div class="pathmap"><div class="legend"><div><span class="sw" style="background:#155a8a"></span>Basisszenario</div><div><span class="sw" style="background:#a22b73"></span>Konservativer Gegenlauf</div><div><span class="sw" style="background:#2f977c"></span>Wertorientierte Sensitivität</div></div><div class="pathlabel" style="left:60px;top:55px;color:#155a8a">Basis</div><div class="path" style="left:170px;top:72px;width:860px;background:#155a8a"></div><div class="pathlabel" style="left:60px;bottom:82px;color:#a22b73">Gegenlauf</div><div class="path" style="left:230px;bottom:99px;width:720px;background:#a22b73"></div><div class="pathlabel" style="left:360px;top:145px;color:#2f977c">Sensitivität</div><div class="path" style="left:330px;top:190px;width:520px;background:#2f977c;transform:rotate(36deg);transform-origin:left center"></div><div style="position:absolute;left:870px;top:150px;width:170px;height:170px;border-radius:42px;background:#f5f8fc;border:8px solid #102033;display:flex;align-items:center;justify-content:center;font-size:78px">🛡</div></div><div class="claim">Szenarien ersetzen gefährliche Scheingenauigkeit.</div><div class="deeplink">Deeplink: app.html?story=konsolidierung</div></section>
+<section class="slide dark" data-slide="07"><div class="topline"></div><div class="kicker">Slide 7 · Ergebnislogik</div><h1 class="title">Governance-Reife statt bloßer Kennzahlen</h1><p class="subtitle">Das Ziel ist keine isolierte Kennzahl, sondern eine beschlussfähige Vorlage für Management, Aufsichtsrat, Kommune und Verbund.</p><div class="decision-grid"><div class="decision"><div class="icon" style="width:112px;height:112px;background:#2f977c;font-size:58px">✓</div><h3>Robust tragfähig</h3><p>Entscheidungsfähig auch unter Gegenlauf und Sensitivität.</p></div><div class="decision"><div class="icon" style="width:112px;height:112px;background:#f0b82b;font-size:58px">?</div><h3>Tragfähig mit Auflage</h3><p>Beschlussfähig, wenn Auflagen, Monitoring oder Klärpunkte gesetzt werden.</p></div><div class="decision"><div class="icon" style="width:112px;height:112px;background:#8390a2;font-size:58px">…</div><h3>Nicht entscheidungsreif</h3><p>Annahmen, Evidenz oder Zuständigkeiten reichen noch nicht.</p></div><div class="decision"><div class="icon" style="width:112px;height:112px;background:#d13a2f;font-size:58px">!</div><h3>Nicht tragfähig</h3><p>Das Szenario verletzt finanzielle, regulatorische oder Governance-Grenzen.</p></div></div><div class="claim">Die Methode übersetzt Rechenlogik in Gremiensprache.</div><div class="deeplink">Deeplink: app.html?story=gremium</div><div class="footer">Primärartefakt: GitHub · Publikation: BookStack · Teaser: stromdao.de</div></section>
+
+<section class="slide dark" data-slide="08"><div class="topline"></div><div class="kicker">Slide 8 · Einstieg und Weiterarbeit</div><h1 class="title">Vom Schaubild direkt in die Anwendung</h1><p class="subtitle">Der Szenarienrechner-EOG verbindet Methodik, Rechenlogik und Gremiensprache in einem offenen, offline-first nutzbaren Arbeitsartefakt.</p><div class="final-layout"><div class="qr-card"><img src="exports/startseite-qr.svg" alt="QR-Code zur Startseite des Szenarienrechner-EOG"><strong>Szenarienrechner-EOG starten</strong><a href="https://energychain.github.io/Szenarienrechner-EOG/index.html">energychain.github.io/Szenarienrechner-EOG/index.html</a></div><div class="keyword-grid"><div class="keyword"><span class="badge" style="background:#155a8a">5</span><div><h3>Fünf Fachsichten</h3><p>Technik, Wirtschaftsplan, Bilanzierung, Regulatorik und Governance getrennt lesen.</p></div></div><div class="keyword"><span class="badge" style="background:#f27a1a">↔</span><div><h3>EOG statt Scheingenauigkeit</h3><p>Cashflow, HGB-Wirkung und regulatorische Periodenlogik trennen.</p></div></div><div class="keyword"><span class="badge" style="background:#7d519f">≈</span><div><h3>Szenarien und Sensitivität</h3><p>Basis, konservativer Gegenlauf und wertorientierte Sensitivität prüfen Robustheit.</p></div></div><div class="keyword"><span class="badge" style="background:#2f977c">✓</span><div><h3>Gremienfähige Entscheidung</h3><p>Robust tragfähig, tragfähig mit Auflage oder nicht entscheidungsreif.</p></div></div><div class="keyword"><span class="badge" style="background:#a22b73">↧</span><div><h3>Exportierbare Artefakte</h3><p>Offline-first App, Methodikhandbuch, Visuals, Vorlagen und Deeplinks.</p></div></div></div></div><div class="footer">Szenarienrechner-EOG · Methodik-Grafikserie</div></section>
+</main></body></html>

diff --git a/docs/visuals/methodik-grafikserie.md b/docs/visuals/methodik-grafikserie.md
@@ -1,6 +1,6 @@
 # Methodik-Grafikserie: Szenarienrechner-EOG
 
-Diese Grafikserie übersetzt die Methodik des Szenarienrechner-EOG in sieben visuelle Arbeitsfolien. Sie ist als Master-Artefakt für BookStack, Präsentationen, LinkedIn-Carousels, Video-Storyboard und Workshop-Unterlagen gedacht.
+Diese Grafikserie übersetzt die Methodik des Szenarienrechner-EOG in acht visuelle Arbeitsfolien. Sie ist als Master-Artefakt für BookStack, Präsentationen, LinkedIn-Carousels, Video-Storyboard und Workshop-Unterlagen gedacht.
 
 ## Primärer Veröffentlichungsort
 
@@ -15,9 +15,11 @@ Primär sollte die Grafikserie im GitHub-Repository versioniert werden. Dort ist
 5. IRR-Falle: Mehrdeutigkeit sichtbar machen
 6. Szenarien statt Scheingenauigkeit
 7. Governance-Reife statt bloßer Kennzahlen
+8. Schlüsselslide: QR-Code, Startseite und fünf Kernpunkte
 
 ## App-Deeplinks
 
+- Startseite: https://energychain.github.io/Szenarienrechner-EOG/index.html
 - Entscheidungsvorlage: https://energychain.github.io/Szenarienrechner-EOG/app.html?story=entscheidungsvorlage
 - Datenerhebung: https://energychain.github.io/Szenarienrechner-EOG/app.html?story=datenerhebung
 - Maßnahmenbewertung: https://energychain.github.io/Szenarienrechner-EOG/app.html?story=massnahmenbewertung
@@ -35,11 +37,14 @@ Primär sollte die Grafikserie im GitHub-Repository versioniert werden. Dort ist
 - [Slide 5 als PNG](exports/methodik-slide-05.png)
 - [Slide 6 als PNG](exports/methodik-slide-06.png)
 - [Slide 7 als PNG](exports/methodik-slide-07.png)
+- [Slide 8 als PNG](exports/methodik-slide-08.png)
 
-![Kontaktbogen der sieben Methodik-Slides](exports/methodik-contact-sheet.png)
+![Kontaktbogen der acht Methodik-Slides](exports/methodik-contact-sheet.png)
 
 ## Repository-Pfade
 
+- `docs/visuals/methodik-slide-source.html`: HTML-Quelle für die exportierten PNG-Slides
 - `docs/visuals/methodik-grafikserie.html`: interaktiver, druckbarer HTML-Slide-Master
 - `docs/visuals/methodik-grafikserie.md`: redaktionelle Übersicht
-- `docs/visuals/exports/methodik-slide-01.png` bis `methodik-slide-07.png`: exportierte Einzelgrafiken für BookStack, Social Media und Präsentationen
+- `docs/visuals/exports/methodik-slide-01.png` bis `methodik-slide-08.png`: exportierte Einzelgrafiken für BookStack, Social Media und Präsentationen
+- `docs/visuals/exports/startseite-qr.svg`: QR-Code zur öffentlichen Startseite